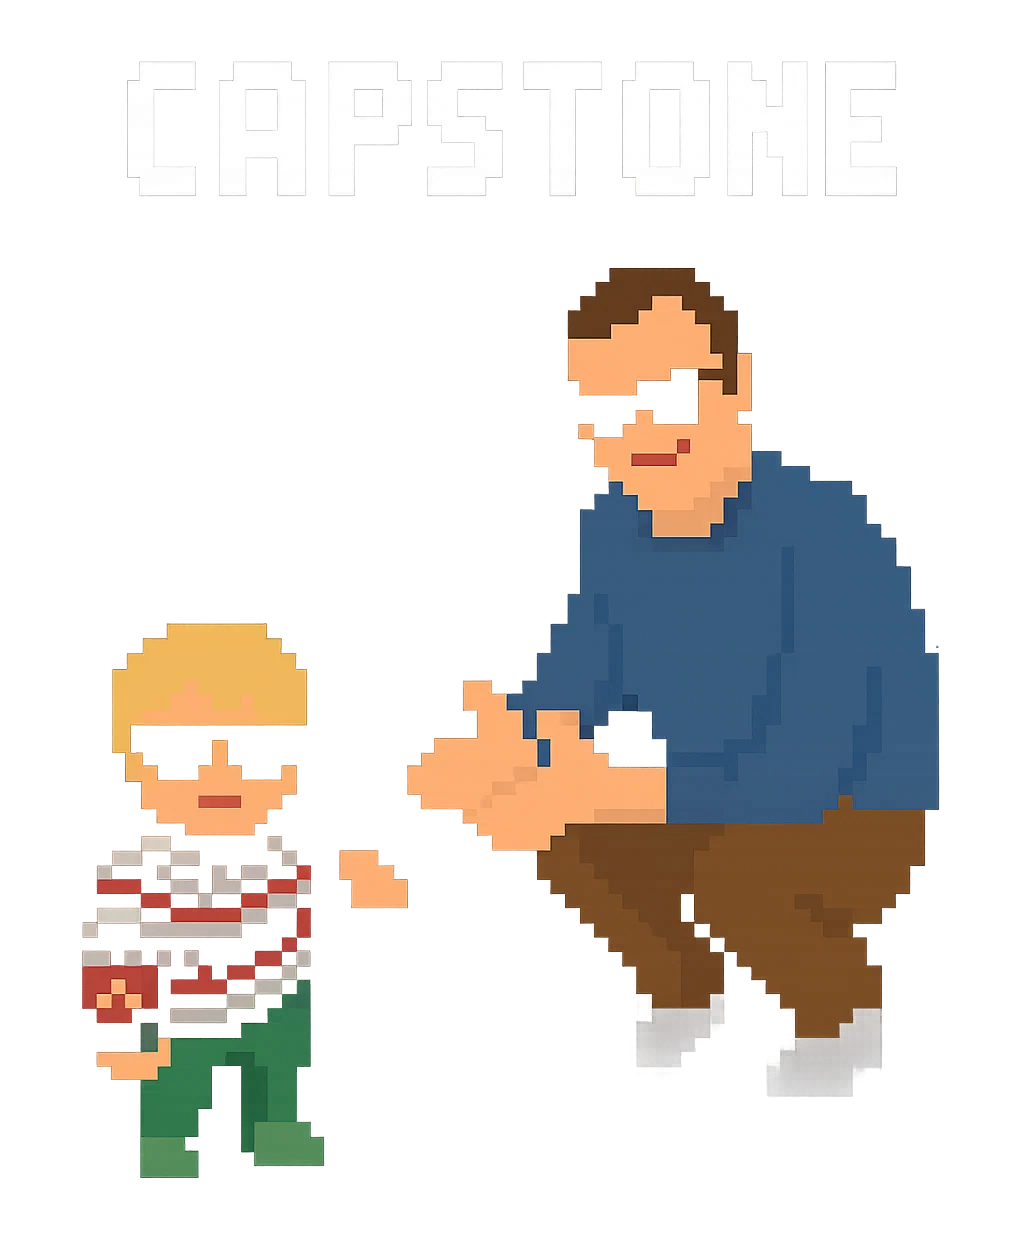
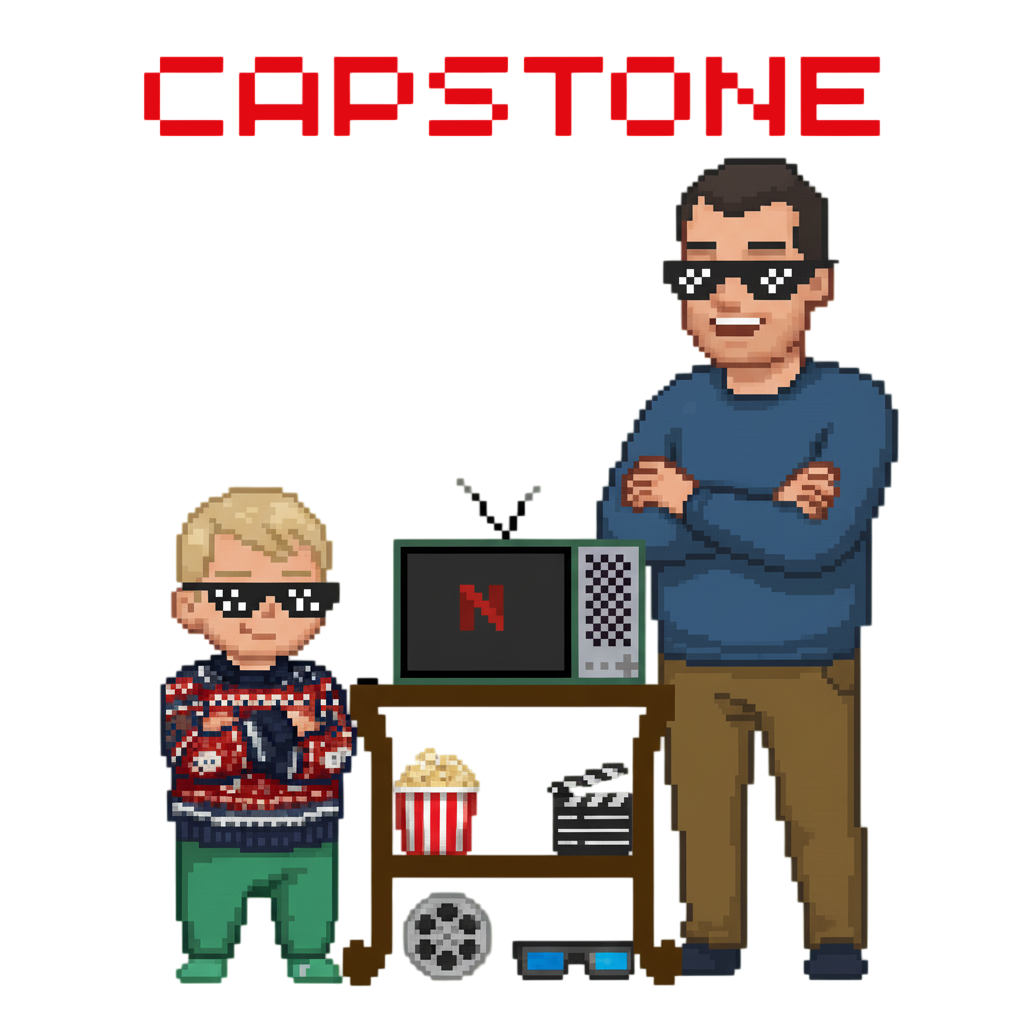
onboarding screen modified

diff --git a/lib/features/profile/presentation/pages/profile_list_page.dart b/lib/features/profile/presentation/pages/profile_list_page.dart
@@ -257,10 +257,38 @@ class _ProfileListPageState extends ConsumerState<ProfileListPage> {
                       Align(
                         alignment: Alignment.centerRight,
                         child: IconButton(
-                          icon: Icon(
-                            _isEditMode ? Icons.close : Icons.edit_outlined,
-                            color: Colors.white,
-                            size: 24,
+                          icon: AnimatedSwitcher(
+                            duration: const Duration(milliseconds: 300),
+                            transitionBuilder: (Widget child, Animation<double> animation) {
+                              return RotationTransition(
+                                turns: Tween<double>(
+                                  begin: 0.0,
+                                  end: 0.5,
+                                ).animate(CurvedAnimation(
+                                  parent: animation,
+                                  curve: Curves.easeInOut,
+                                )),
+                                child: ScaleTransition(
+                                  scale: Tween<double>(
+                                    begin: 0.8,
+                                    end: 1.0,
+                                  ).animate(CurvedAnimation(
+                                    parent: animation,
+                                    curve: Curves.easeOutBack,
+                                  )),
+                                  child: FadeTransition(
+                                    opacity: animation,
+                                    child: child,
+                                  ),
+                                ),
+                              );
+                            },
+                            child: Icon(
+                              _isEditMode ? Icons.close : Icons.edit_outlined,
+                              key: ValueKey<bool>(_isEditMode),
+                              color: Colors.white,
+                              size: 24,
+                            ),
                           ),
                           onPressed: () {
                             setState(() {
@@ -300,23 +328,6 @@ class _ProfileListPageState extends ConsumerState<ProfileListPage> {
                           ? _buildEmptyState(screenHeight)
                           : _buildProfilesList(profileState, screenWidth, isSmallScreen, screenHeight),
                 ),
-
-                // Profile Limit Indicator (bottom, subtle)
-                if (_maxProfiles != null && profileState.profiles.isNotEmpty)
-                  Padding(
-                    padding: EdgeInsets.only(bottom: _spacing!),
-                    child: Center(
-                      child: Text(
-                        '${profileState.profiles.length} / $_maxProfiles ${_localizations!.profiles.toLowerCase()}',
-                        style: TextStyle(
-                          fontSize: 11,
-                          color: Colors.white.withValues(alpha: 0.4),
-                          fontWeight: FontWeight.w400,
-                        ),
-                      ),
-                    ),
-                  ),
-                SizedBox(height: _spacing!),
               ],
             ),
           ],
@@ -463,52 +474,63 @@ class _ProfileListPageState extends ConsumerState<ProfileListPage> {
               ),
             ],
           ),
-          // Delete button (shown in edit mode)
-          if (isEditMode && onDelete != null)
-            Positioned(
-              top: 4,
-              right: 4,
-              child: Material(
-                color: Colors.transparent,
-                child: InkWell(
-                  onTap: onDelete,
-                  borderRadius: BorderRadius.circular(18),
-                  child: Container(
-                    width: 36,
-                    height: 36,
-                    decoration: BoxDecoration(
-                      shape: BoxShape.circle,
-                      gradient: LinearGradient(
-                        begin: Alignment.topLeft,
-                        end: Alignment.bottomRight,
-                        colors: [
-                          AppColors.netflixRed,
-                          AppColors.netflixRed.withValues(alpha: 0.85),
-                        ],
-                      ),
-                      boxShadow: [
-                        BoxShadow(
-                          color: AppColors.netflixRed.withValues(alpha: 0.5),
-                          blurRadius: 12,
-                          spreadRadius: 0,
-                          offset: const Offset(0, 4),
+          // Delete button (shown in edit mode with animation)
+          if (onDelete != null)
+            AnimatedPositioned(
+              duration: const Duration(milliseconds: 300),
+              curve: Curves.easeOutCubic,
+              top: isEditMode ? 4 : -40,
+              right: isEditMode ? 4 : -40,
+              child: AnimatedOpacity(
+                duration: const Duration(milliseconds: 250),
+                opacity: isEditMode ? 1.0 : 0.0,
+                child: AnimatedScale(
+                  duration: const Duration(milliseconds: 300),
+                  curve: Curves.easeOutBack,
+                  scale: isEditMode ? 1.0 : 0.5,
+                  child: Material(
+                    color: Colors.transparent,
+                    child: InkWell(
+                      onTap: onDelete,
+                      borderRadius: BorderRadius.circular(18),
+                      child: Container(
+                        width: 36,
+                        height: 36,
+                        decoration: BoxDecoration(
+                          shape: BoxShape.circle,
+                          gradient: LinearGradient(
+                            begin: Alignment.topLeft,
+                            end: Alignment.bottomRight,
+                            colors: [
+                              AppColors.netflixRed,
+                              AppColors.netflixRed.withValues(alpha: 0.85),
+                            ],
+                          ),
+                          boxShadow: [
+                            BoxShadow(
+                              color: AppColors.netflixRed.withValues(alpha: 0.5),
+                              blurRadius: 12,
+                              spreadRadius: 0,
+                              offset: const Offset(0, 4),
+                            ),
+                            BoxShadow(
+                              color: Colors.black.withValues(alpha: 0.4),
+                              blurRadius: 8,
+                              spreadRadius: -2,
+                              offset: const Offset(0, 2),
+                            ),
+                          ],
+                          border: Border.all(
+                            color: Colors.white.withValues(alpha: 0.25),
+                            width: 1.5,
+                          ),
                         ),
-                        BoxShadow(
-                          color: Colors.black.withValues(alpha: 0.4),
-                          blurRadius: 8,
-                          spreadRadius: -2,
-                          offset: const Offset(0, 2),
+                        child: const Icon(
+                          Icons.close_rounded,
+                          color: Colors.white,
+                          size: 20,
                         ),
-                      ],
-                      border: Border.all(
-                        color: Colors.white.withValues(alpha: 0.25),
-                        width: 1.5,
                       ),
-                    ),
-                    child: const Icon(
-                      Icons.close_rounded,
-                      color: Colors.white,
-                      size: 20,
                     ),
                   ),
                 ),

diff --git a/lib/features/splash/presentation/pages/splash_page.dart b/lib/features/splash/presentation/pages/splash_page.dart
@@ -64,18 +64,7 @@ class _SplashPageState extends State<SplashPage> with SingleTickerProviderStateM
               position: _slideAnimation,
               child: ScaleTransition(
                 scale: _scaleAnimation,
-                child: Container(
-                  padding: const EdgeInsets.symmetric(horizontal: 32, vertical: 24),
-                  decoration: BoxDecoration(
-                    color: Colors.black.withValues(alpha: 0.25),
-                    borderRadius: BorderRadius.circular(16),
-                    border: Border.all(
-                      color: Colors.white.withValues(alpha: 0.06),
-                      width: 0.8,
-                    ),
-                  ),
-                  child: const NetflixLogo(),
-                ),
+                child: const NetflixLogo(),
               ),
             ),
           ),

diff --git a/lib/features/onboarding/presentation/pages/onboarding_page.dart b/lib/features/onboarding/presentation/pages/onboarding_page.dart
@@ -145,7 +145,7 @@ class OnboardingPage extends StatelessWidget {
                       CustomButton(
                         text: localizations.signIn,
                         style: CustomButtonStyle.outlined,
-                        borderColor: AppColors.netflixWhite,
+                        borderColor: AppColors.netflixRed,
                         onPressed: () {
                           Navigator.push(
                             context,

diff --git a/lib/core/theme/app_colors.dart b/lib/core/theme/app_colors.dart
@@ -6,7 +6,7 @@ class AppColors {
   AppColors._();
 
   // Netflix Brand Colors
-  static const Color netflixRed = Color(0xFFE50914);
+  static const Color netflixRed = Color.fromARGB(255, 226, 9, 19);
   static const Color netflixBlack = Color(0xFF000000);
   static const Color netflixDarkGray = Color(0xFF141414);
   static const Color netflixGray = Color(0xFF2F2F2F);
